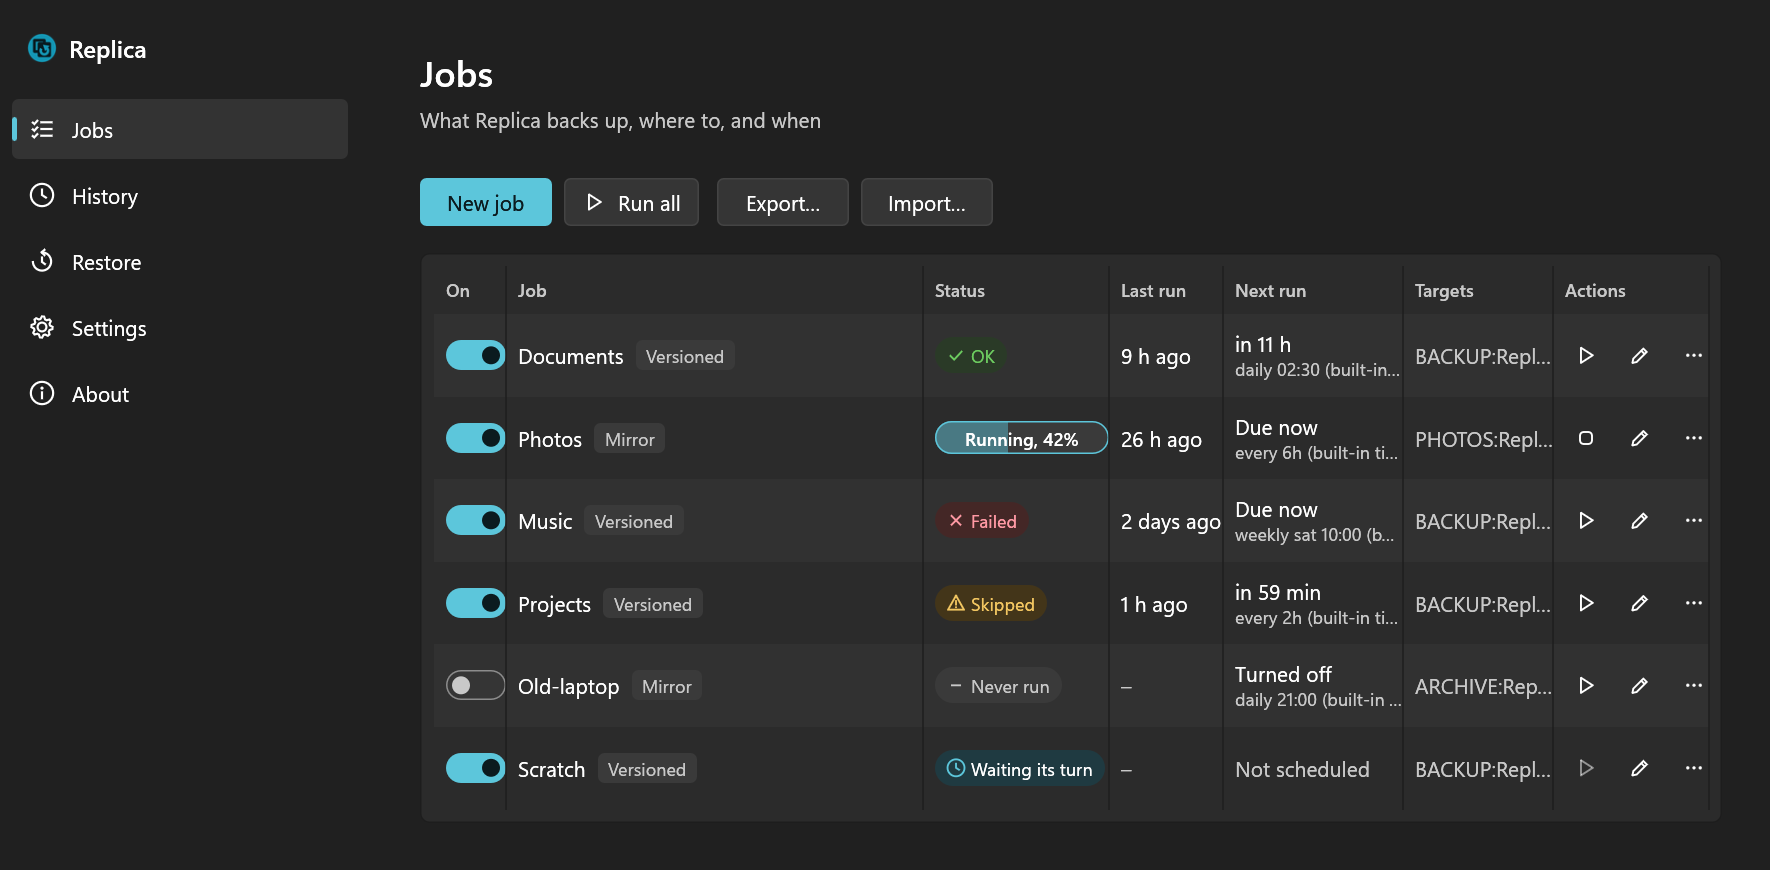
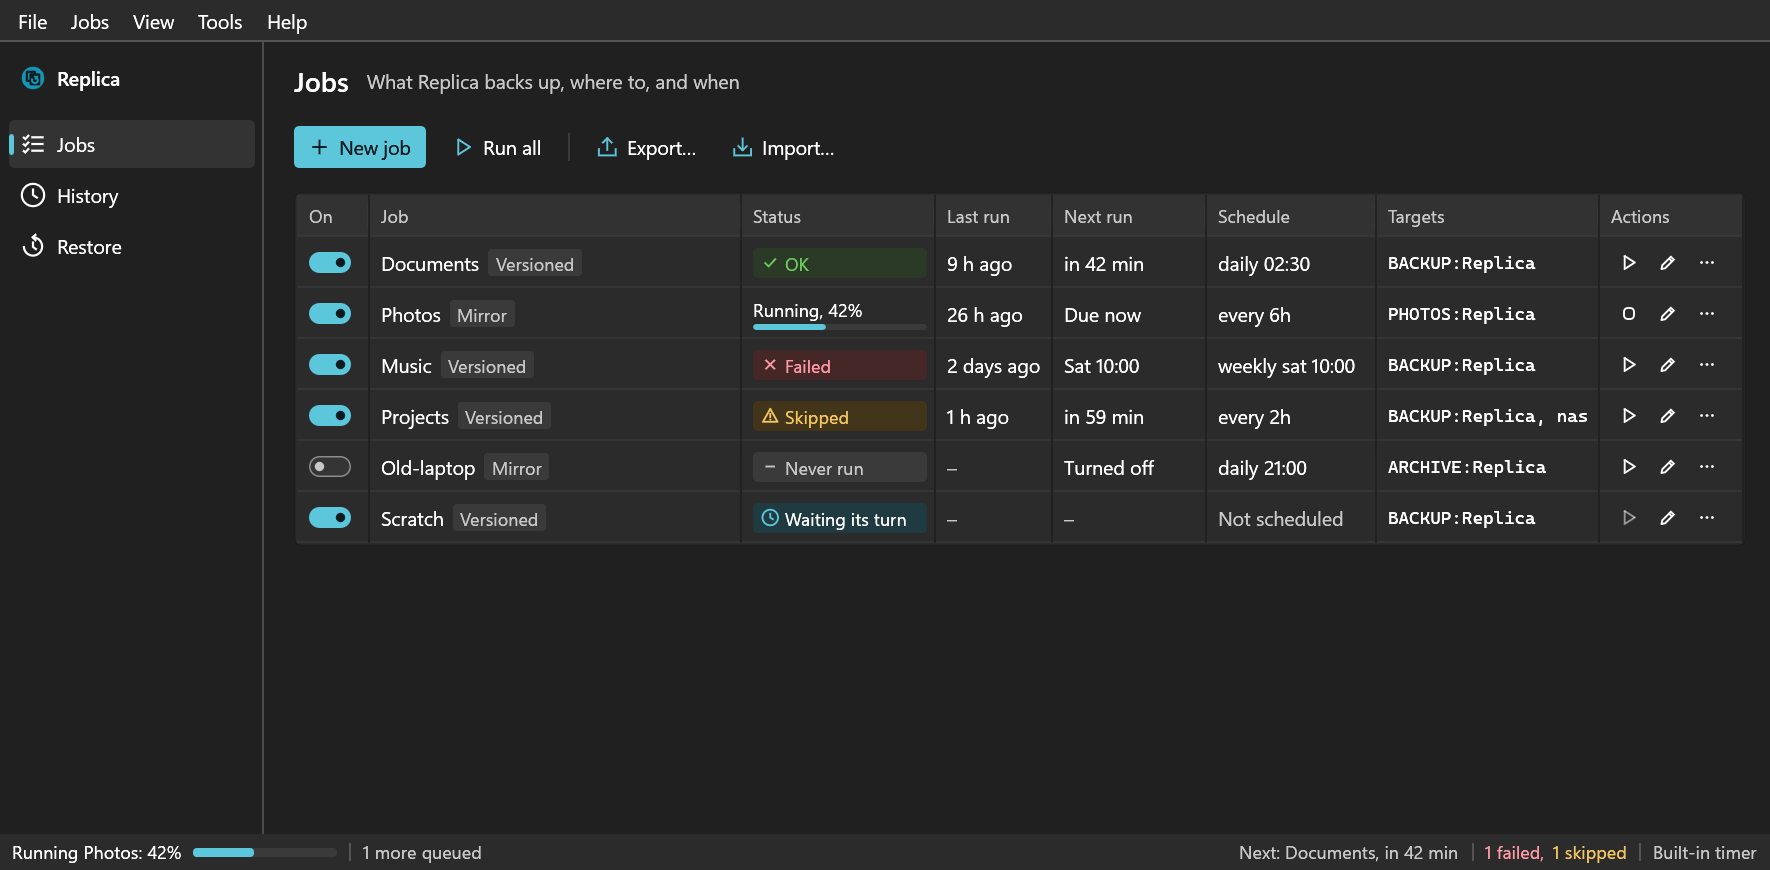
README and user guide show the new window
The README's screenshots are rendered again off screen (ui_shots'
readme-jobs, normal 150%), showing the menu bar, the compact sidebar and
pages and the status bar, and their alt text says so. The README's quick
start and the user guide name the window's real commands: New job or
File > New job…, the Restore page, Settings > Storage from Tools >
Settings…, File > Open settings folder and Open log folder.

diff --git a/docs/user-guide.md b/docs/user-guide.md
@@ -283,7 +283,7 @@ Restoring never touches your files unless you ask it to: by default it goes to a
 
 ### From the window
 
-**Restore** tab:
+The **Restore** page (in the sidebar, or Ctrl+3):
 
 1. Pick the **job** and, if it has several, the **backup** (target). Its snapshots are listed,
    newest first.
@@ -314,7 +314,7 @@ A **mirror** target has no snapshots: it's a plain copy, so copy files back from
 A backup you've never restored from is a backup you hope works. Once a month, and after any
 change to a job:
 
-1. **Restore tab > Test restore**, for each versioned job and each of its targets. Replica restores
+1. **Restore > Test restore** in the window, for each versioned job and each of its targets. Replica restores
    a few random files from the latest snapshot to a temporary folder and compares them, byte for
    byte, with the originals. It says how many were compared and that they're the same, or names
    any that differ. History keeps every test restore. (Files that changed since the backup aren't
@@ -462,7 +462,8 @@ settings and history travel with it. If its folder can't be written to (a read-o
 folder), Replica says so and saves nothing anywhere else.
 
 Share logins and repository passwords are always in Windows Credential Manager, in both cases.
-**Settings > Where Replica keeps its files** shows the exact folders, with buttons to open them.
+**Settings > Storage** (**Tools > Settings…**) shows the exact folders, under **Where Replica
+keeps its files**, with buttons to open them; **File > Open settings folder** opens Replica's.
 
 Uninstalling the MSI (Settings > Apps) removes the program, Replica's scheduled tasks and its Start
 with Windows entry. It **never** removes your settings, history, logs or backups.
@@ -472,7 +473,8 @@ with Windows entry. It **never** removes your settings, history, logs or backups
 **Where to look first.** **History** in the window shows every run, each target's result and why,
 and **Open the log** for that run. The logs are in `logs\runs\` (one per run) and `logs\` (one per
 start of the tray or the command line) in Replica's folder (see above); **File > Open log folder**
-(or **Settings > Open the logs folder**) opens them. `replica status` shows every job's last result and what's running.
+(or **Open the logs folder** in **Settings > Storage**) opens them. `replica status` shows every
+job's last result and what's running, as the window's status bar does.
 
 **"The target isn't available" (skipped).** The drive isn't plugged in, or the NAS is off or out
 of reach. Plug it in or switch it on, and run the job again, or wait for the next scheduled run.

diff --git a/README.md b/README.md
@@ -10,7 +10,7 @@
 
 <picture>
   <source media="(prefers-color-scheme: dark)" srcset="docs/screenshots/jobs-dark.png">
-  <img src="docs/screenshots/jobs-light.png" alt="Replica's Jobs page: six backup jobs with their status (OK, running at 42%, failed, skipped, never run and waiting its turn), last and next run, targets and actions">
+  <img src="docs/screenshots/jobs-light.png" alt="Replica's window on its Jobs page: a menu bar (File, Jobs, View, Tools, Help), a sidebar of Jobs, History and Restore, and a table of six backup jobs with their status (OK, running at 42%, failed, skipped, never run and waiting its turn), last and next run, schedule, targets and actions; along the bottom, a status bar with the running job's progress, the next run, 1 failed and 1 skipped, and the built-in timer">
 </picture>
 
 Replica backs up your folders to an external drive or a NAS share on a schedule. Each backup is a
@@ -51,7 +51,8 @@ files (30% by default), as when a source was emptied by mistake.
 
 1. **Install Replica** (see [Installing](#installing)), or build it from source (see
    [Building from source](#building-from-source)).
-2. **Set up a job** in the window (**Jobs > Add job**, from the tray icon), or in `settings.toml`,
+2. **Set up a job** in the window (open it from the tray icon, then **New job**, or **File > New
+   job…**), or in `settings.toml`,
    in `%APPDATA%\Replica\` (or beside the exe for a portable copy). [docs/settings.example.toml](docs/settings.example.toml) documents every key; the
    [job model](#jobs) below shows the short version.
 3. **Set up its target.** The window does this when you save the job. For a job set up in the
